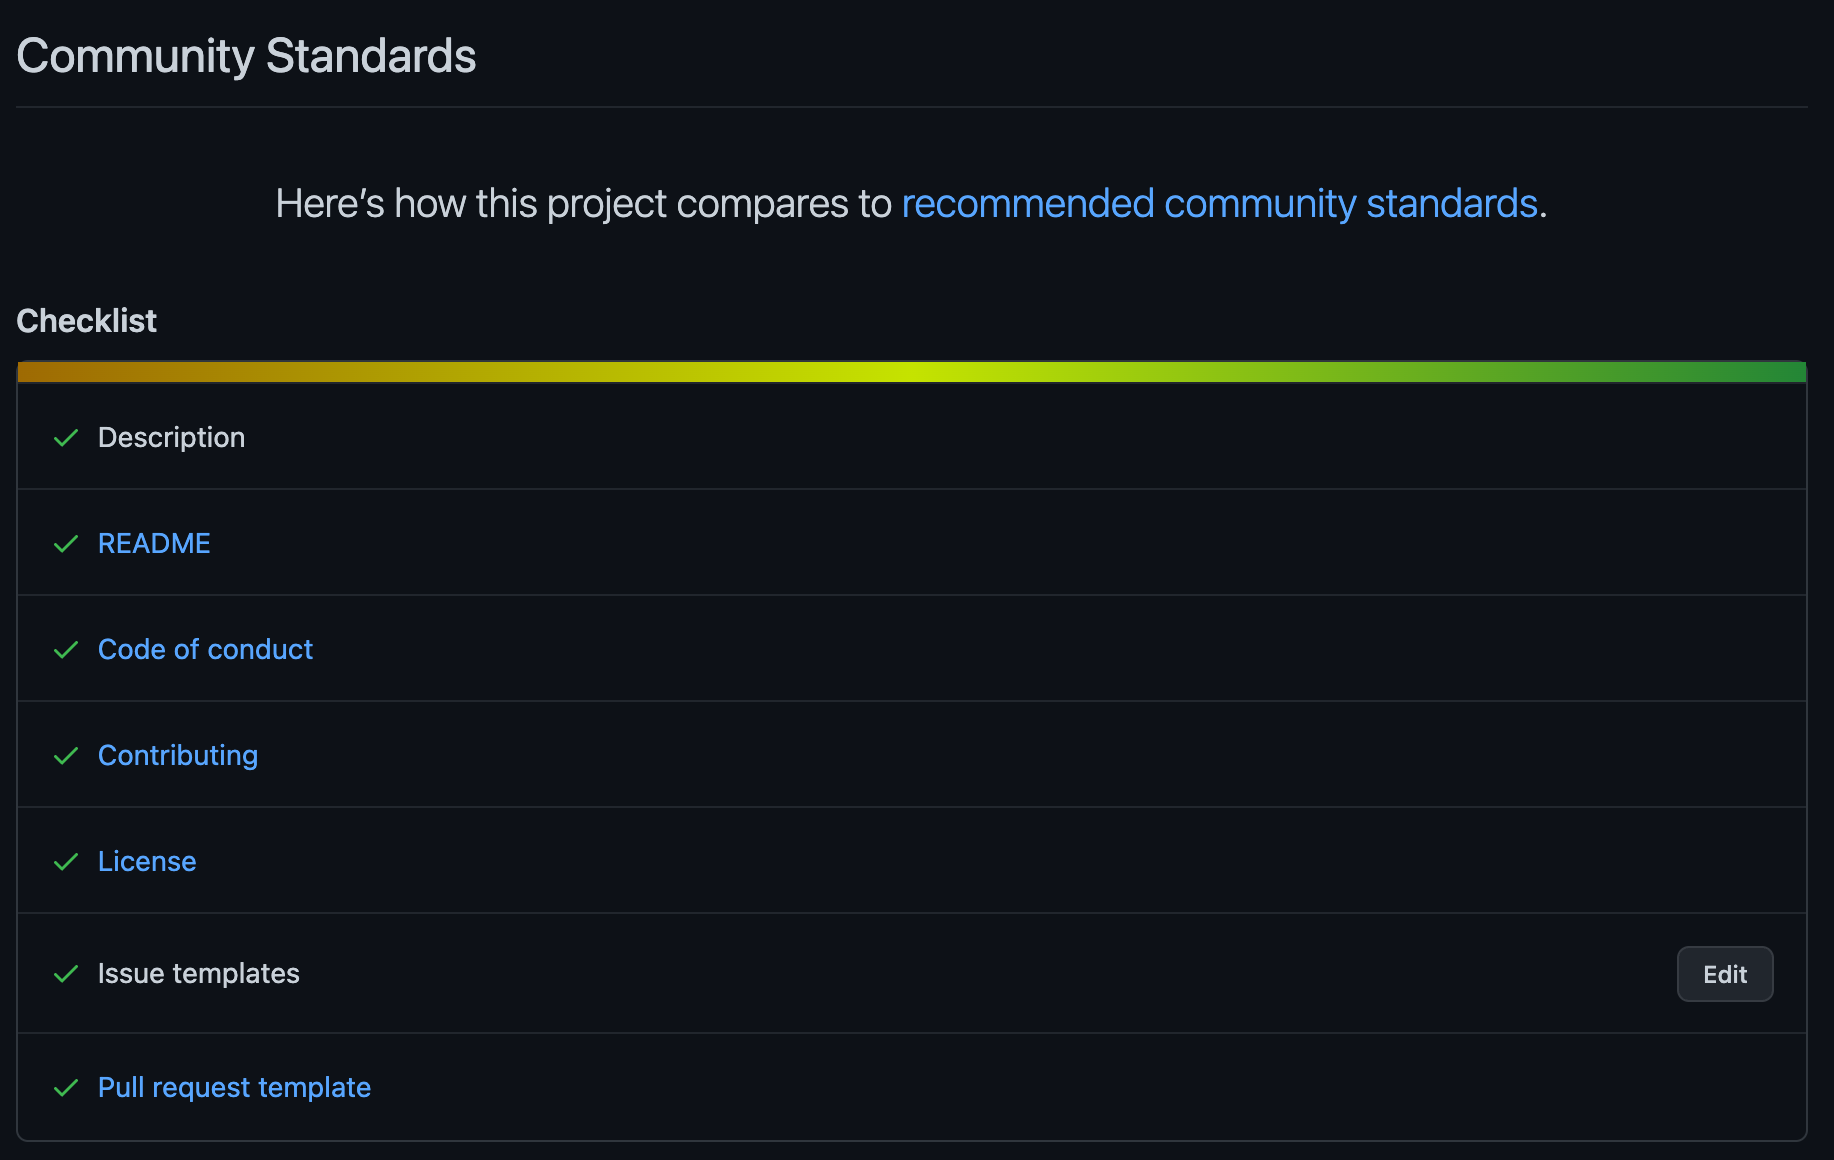
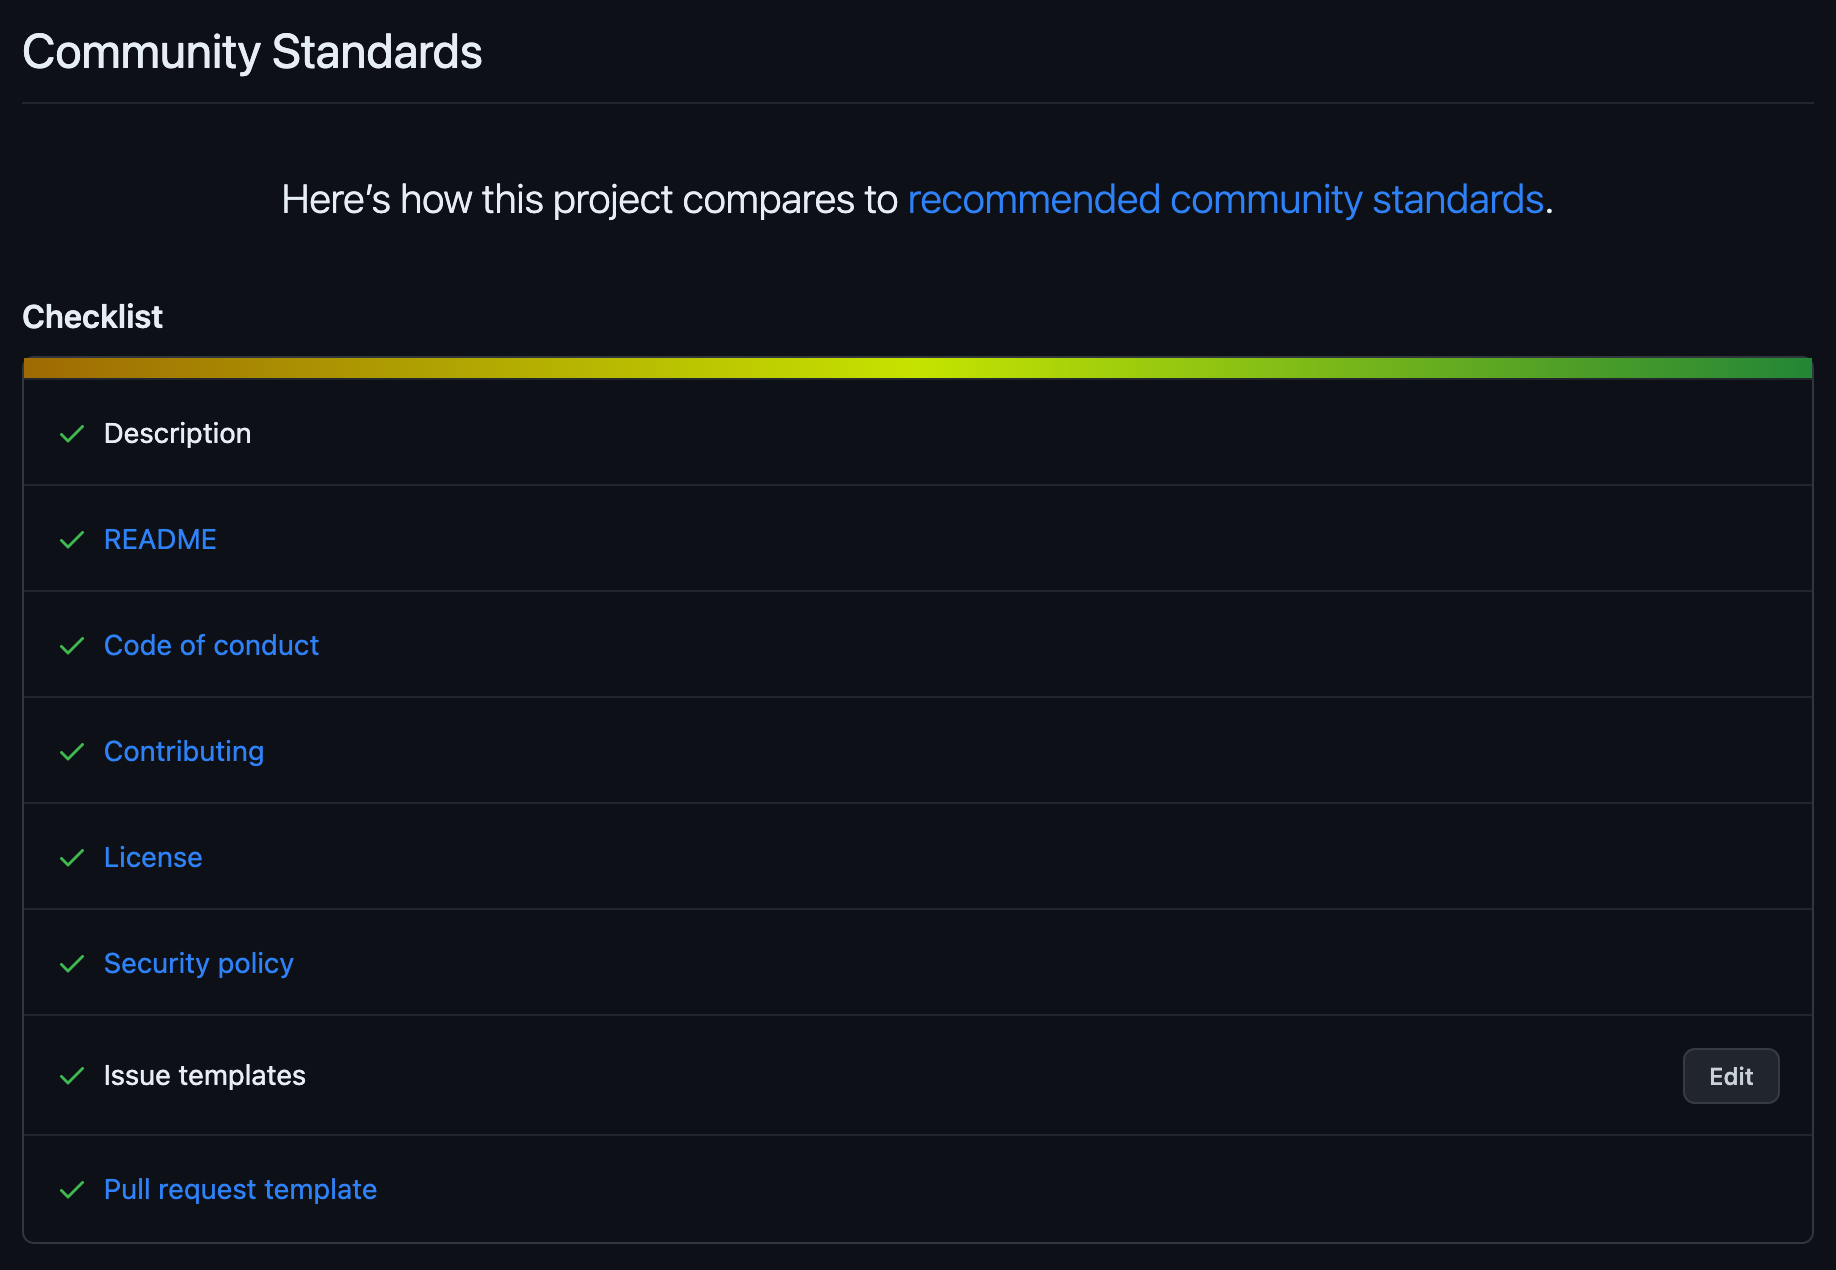
feat(docs): update README

diff --git a/README.md b/README.md
@@ -1,3 +1,4 @@
+<!-- vale write-good.E-Prime = NO -->
 # Base Template Repository
 
 [![Test](https://github.com/haru52/base_template/actions/workflows/test.yml/badge.svg)](https://github.com/haru52/base_template/actions/workflows/test.yml)
@@ -72,7 +73,7 @@ Nothing.
 
 [![Security overview](images/security_overview.png)](https://github.com/haru52/base_template/security)
 
-Why `Code scannig alerts` feature isn't enabled? Because this template has no code to scan! Of course you can set up this feature according to your project.
+Why `Private vulnerability reporting` and `Code scannig alerts` features aren't enabled? Because the former is a beta feature and this template has no code to scan! Of course you can set up these according to your project.
 
 ### Troubleshooting
 
